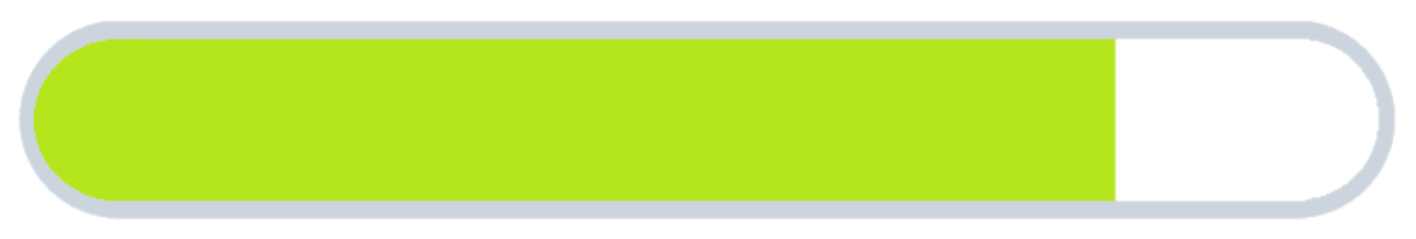
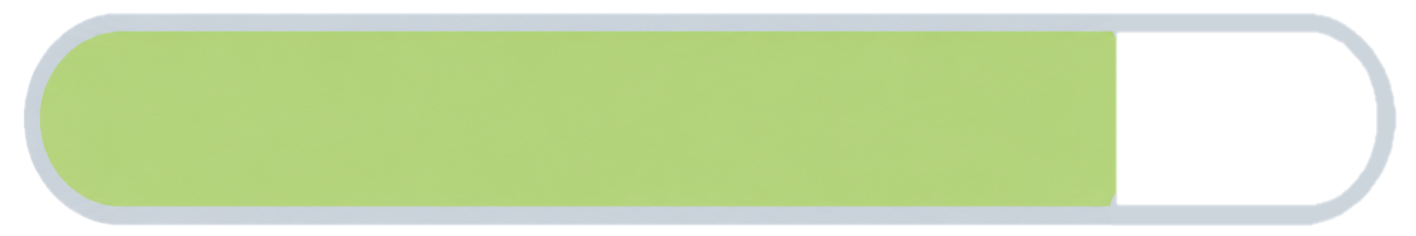
style: update progress status colors for better accessibility

diff --git a/_sass/custom.scss b/_sass/custom.scss
@@ -433,12 +433,10 @@ ul.iconillo {
 
 // Nuevos estados (legacy)
 .alcanzado {background-color: #45ba80; background: #45ba80;}
-.progreso {background-color: #b5e61d; background: #b5e61d;}
-.retroceso {background-color: #ff7f27; background: #ff7f27;}
-.noevaluado {background-color: #ccd5dd; background: #ccd5dd;}
+.progreso {background-color: #b3d37a; background: #b3d37a;}
 // Nuevos estados (Eurostat)
 .significant-progress {background-color: #45ba80; background: #45ba80;}
-.moderate-progress {background-color: #b5e61d; background: #b5e61d;}
+.moderate-progress {background-color: #b3d37a; background: #b3d37a;}
 .no-progress {background-color: #fec329; background: #fec329;}
 .moderate-deterioration {background-color: #ff7f27; background: #ff7f27;}
 .significant-deterioration {background-color: #db405a; background: #db405a;}
@@ -512,12 +510,12 @@ ul.iconillo {
             }
 // Otros estados de progreso (legacy)
                         .alcanzado {background-color: #45ba80; background: #45ba80;}
-                        .progreso {background-color: #b5e61d; background: #b5e61d;}
+                        .progreso {background-color: #b3d37a; background: #b3d37a;}
                         .retroceso {background-color: #ff7f27; background: #ff7f27;}
                         .noevaluado {background-color: #ccd5dd; background: #ccd5dd;}
 // Otros estados de progreso (Eurostat)
                         .significant-progress {background-color: #45ba80; background: #45ba80;}
-                        .moderate-progress {background-color: #b5e61d; background: #b5e61d;}
+                        .moderate-progress {background-color: #b3d37a; background: #b3d37a;}
                         .no-progress {background-color: #fec329; background: #fec329;}
                         .moderate-deterioration {background-color: #ff7f27; background: #ff7f27;}
                         .significant-deterioration {background-color: #db405a; background: #db405a;}
